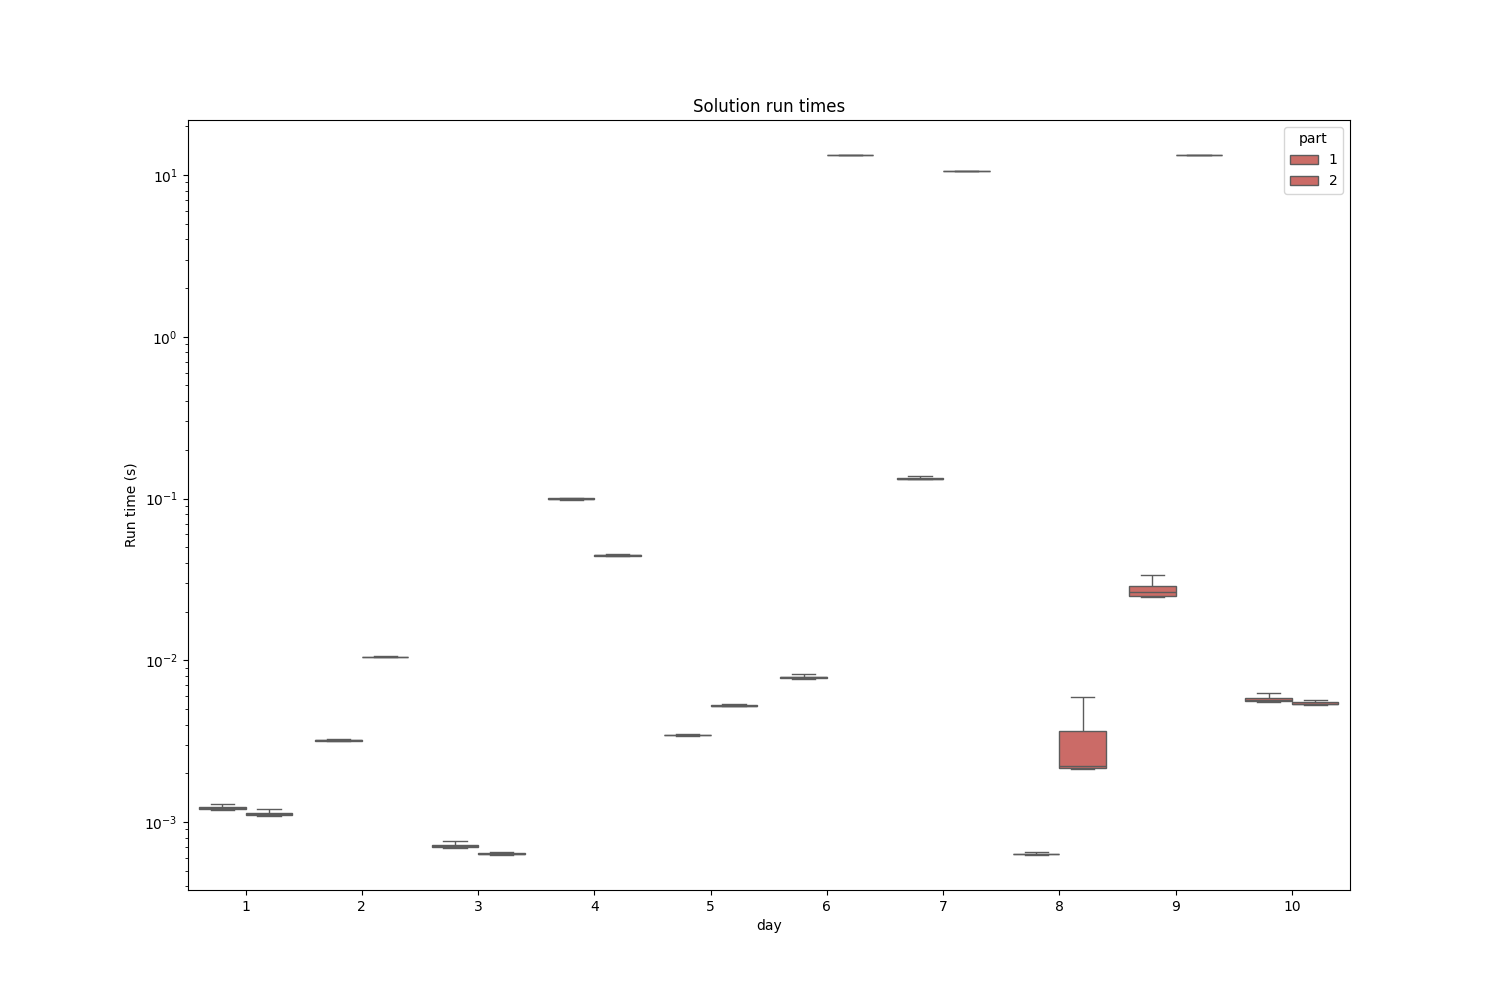
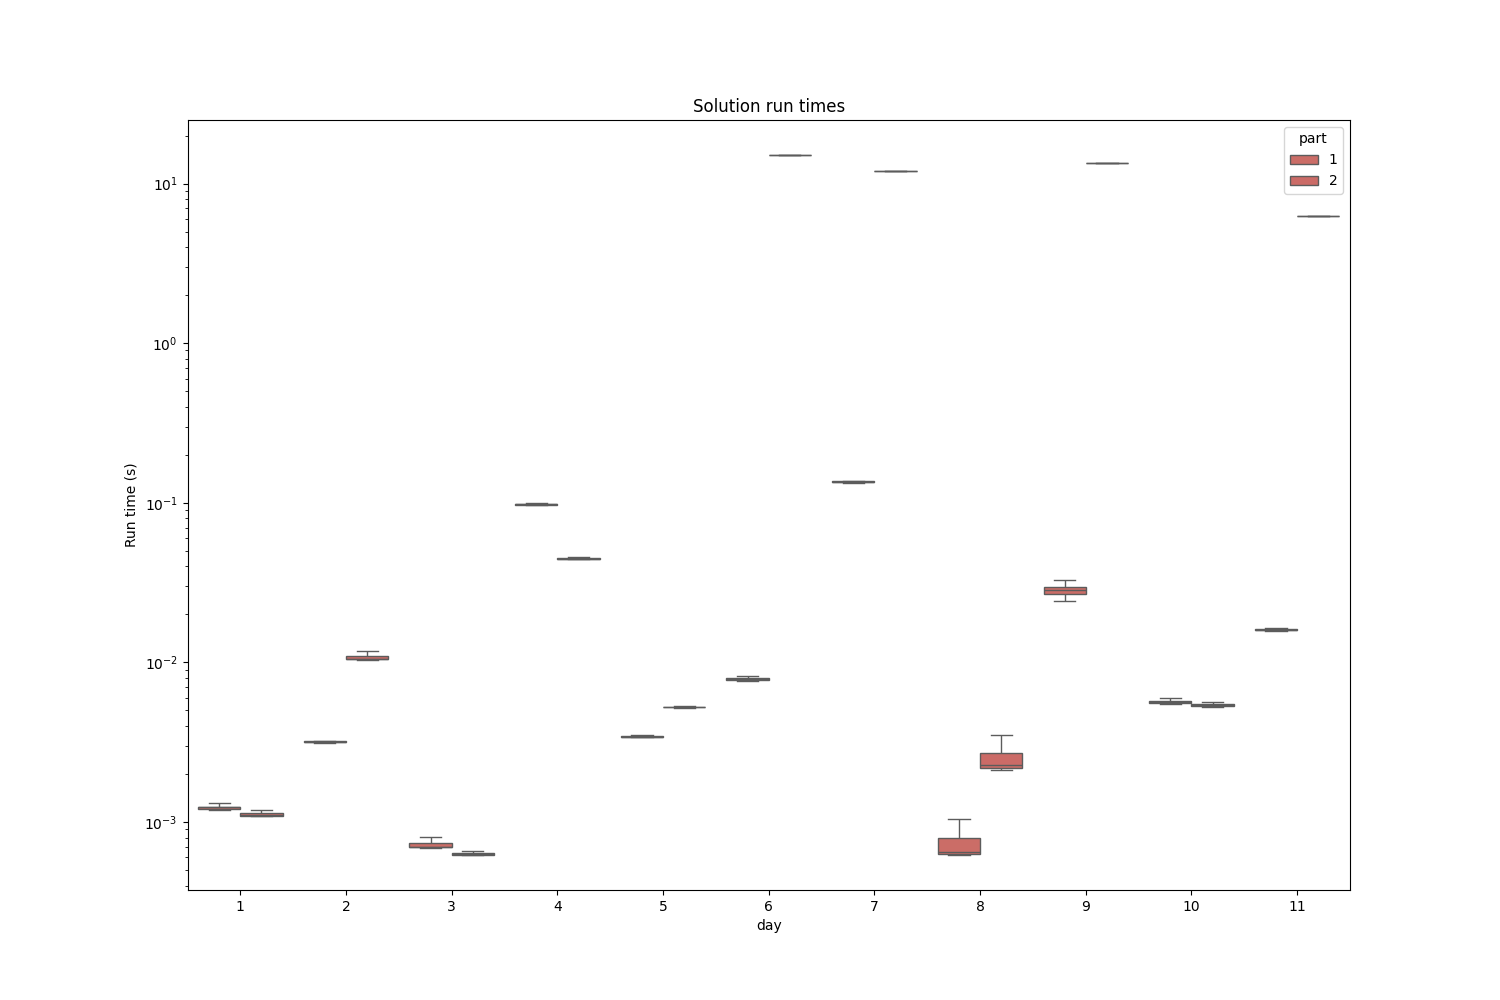
day 11

diff --git a/aoc/day_11.py b/aoc/day_11.py
@@ -7,9 +7,10 @@ def blink(stone: int) -> list[int]:
         return [1]
     len_st = len(str(stone))
     if len_st % 2 == 0:
-        return [int(str(stone)[:len_st//2]), int(str(stone)[len_st//2 :])]
+        return [int(str(stone)[: len_st // 2]), int(str(stone)[len_st // 2 :])]
     else:
-        return [stone*2024]
+        return [stone * 2024]
+
 
 def run_blinks(file_path, n=25):
 
@@ -23,7 +24,7 @@ def run_blinks(file_path, n=25):
         new_stones = Counter()
         for val, count in stones.items():
             new_counter = Counter(blink(val))
-            new_counter = Counter({k: v*count for k,v in new_counter.items()})
+            new_counter = Counter({k: v * count for k, v in new_counter.items()})
             new_stones += new_counter
         stones = new_stones
     return sum(stones.values())
@@ -51,9 +52,6 @@ def part_two(file_path: str):
     Returns:
         [type]: [description]
     """
-
-    with open(file_path) as f:
-        lines = f.readlines()
 
     return run_blinks(file_path, n=75)
 

diff --git a/tests/test_day_11.py b/tests/test_day_11.py
@@ -1,4 +1,5 @@
-from aoc.day_11 import part_one, part_two
+from aoc.day_11 import part_one
+
 
 def test_part_one():
 
